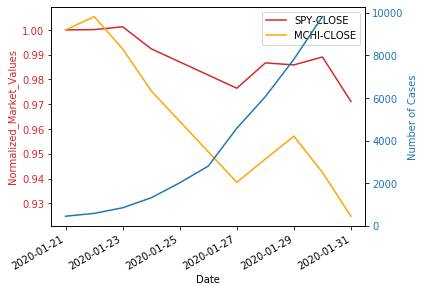
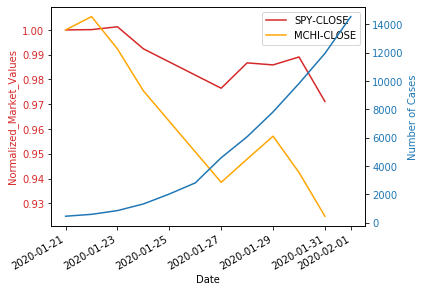
updated data
updated data on latest number of cases of coronovirus

diff --git a/Market_Relationship.py b/Market_Relationship.py
@@ -39,7 +39,7 @@ def virus_data():
     virus_data = {'2020-01-21': 446, '2020-01-22': 579, '2020-01-23': 844,
             '2020-01-24': 1312, '2020-01-25': 2015, '2020-01-26': 2801,
             '2020-01-27': 4579, '2020-01-28': 6061, '2020-01-29': 7816,
-            '2020-01-30': 9821}
+            '2020-01-30': 9821, '2020-01-31': 11948, '2020-02-01': 14551}
 
     date_index = virus_data.keys()
     date_index = [datetime.strptime(x, '%Y-%m-%d') for x in date_index]
